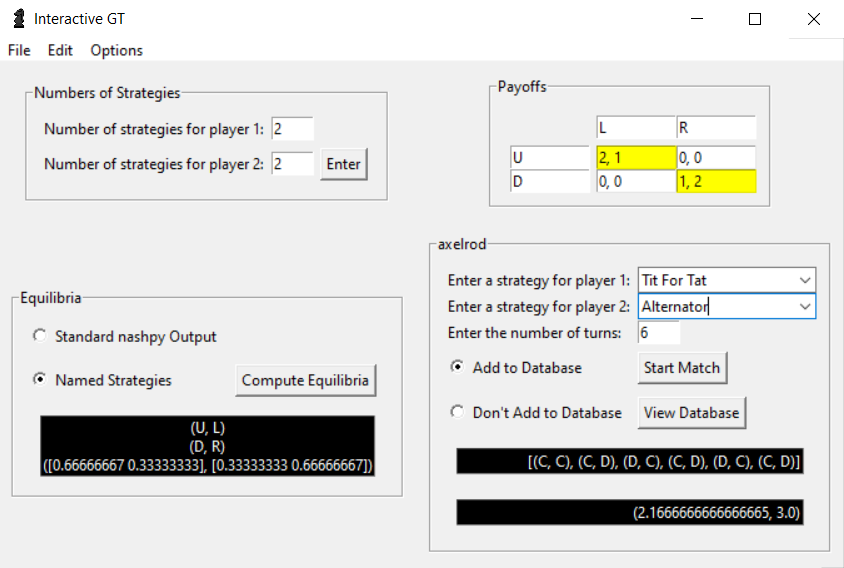
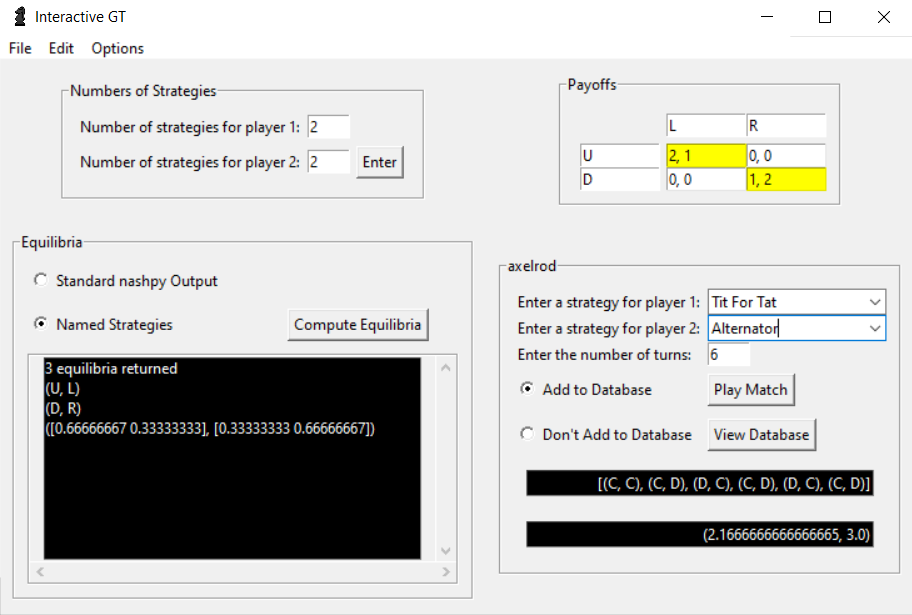
changed equilibria output from a Label to a Labelbox; update README.md

diff --git a/interactivegt.py b/interactivegt.py
@@ -241,21 +241,18 @@ def computeEquilibria(output):
                 # resetting the generator
                 eqs = G.support_enumeration()
             eqList = list(eqs)
-            newList = []
+            newEqList = []
             for eq in eqList:
                 newEq = []
                 for strat in eq:
                     newEq.append(strat.tolist())
-                newList.append(newEq)
+                newEqList.append(newEq)
 
-            eqString = ""
-            for i, eq in enumerate(newList):
-                for j, strat in enumerate(eq):
-                    eqString = eqString + str(strat)
-                    if j < len(eq) - 1:
-                        eqString = eqString + ", "
-                if i < len(newList) - 1:
-                    eqString = eqString + "\n"
+            eqs = G.support_enumeration()
+            eqList = [str(len(list(eqs))) + " equilibria returned\n"]
+            for i, eq in enumerate(newEqList):
+                eqList.append(str(eq[0]) + ", " + str(eq[1]))
+            eqList.reverse()
             
             eqs = G.support_enumeration()
             pureEquilibria = []
@@ -266,7 +263,7 @@ def computeEquilibria(output):
                 else:
                     mixedEquilibria.append(e)
 
-            # Coloring the equilibria yellow
+            # Coloring the equilibria yellow ####################
             payoffMatrixSlaves = payoffsFrame.grid_slaves()
             outcomes = payoffMatrixSlaves[:numStrats1 * numStrats2]
             
@@ -311,11 +308,25 @@ def computeEquilibria(output):
             
             # clearing the previous set of equilibria
             eqSlaves = equilibriaFrame.grid_slaves()
-            if type(eqSlaves[0]).__name__ == "Label":
+            if type(eqSlaves[0]).__name__ == "Listbox":
                 eqSlaves[0].grid_remove()
             
-            equilibriaOutput = Label(equilibriaFrame, text=eqString, bd=1, relief=SUNKEN, anchor=E, bg="black", fg="white")
-            equilibriaOutput.grid(row=2, column=0, columnspan=2, padx=5, pady=5)
+            myFrame = LabelFrame(equilibriaFrame)
+    
+            xscrollbar = Scrollbar(myFrame, orient=HORIZONTAL)
+            yscrollbar = Scrollbar(myFrame, orient=VERTICAL)
+            
+            equilibriaOutputListBox = Listbox(myFrame, width=50, xscrollcommand=xscrollbar.set, yscrollcommand=yscrollbar.set, bg="black", fg="white")
+            for eq in eqList:
+                equilibriaOutputListBox.insert(0, eq)
+            
+            myFrame.grid(row=2, column=0, columnspan=2)
+            equilibriaOutputListBox.grid(row=0, column=0, padx=10, sticky=NSEW)
+            xscrollbar.grid(row=1, column=0, columnspan=2, sticky=EW)
+            xscrollbar.config(command = equilibriaOutputListBox.xview)
+            yscrollbar.grid(row=0, column=1, sticky=NS)
+            yscrollbar.config(command = equilibriaOutputListBox.yview)
+                        
             root.geometry("750x425")
             
         elif output == 1: # Named Strategies
@@ -329,9 +340,17 @@ def computeEquilibria(output):
             else:
                 # resetting the generator
                 eqs = G.support_enumeration()
+            eqList = list(eqs)
+            newEqList = []
+            for eq in eqList:
+                newEq = []
+                for strat in eq:
+                    newEq.append(strat.tolist())
+                newEqList.append(newEq)
             
             pureEquilibria = []
             mixedEquilibria = []
+            eqs = G.support_enumeration()
             for e in eqs:
                 if e[0][0] == 0.0 or e[0][0] == 1.0:
                     pureEquilibria.append(e)
@@ -390,9 +409,16 @@ def computeEquilibria(output):
                     namedEquilibria.append((p1StrategyNames[p1Strat].get(), p2StrategyNames[p2Strat].get()))
                 else:
                     namedEquilibria.append(list(eq))
+                    
+            eqs = G.support_enumeration()
+            eqList = [str(len(list(eqs))) + " equilibria returned\n"]
+            for i, eq in enumerate(namedEquilibria):
+                eqList.append("(" + str(eq[0]) + ", " + str(eq[1]) + ")")
+            eqList.reverse()
             
             # Creating the string to go in the label
-            eqString = ""
+            eqs = G.support_enumeration()
+            eqString = str(len(list(eqs))) + " equilibria returned\n"
             for i, eq in enumerate(namedEquilibria):
                 for j, strat in enumerate(eq):
                     if j == 0:
@@ -451,11 +477,24 @@ def computeEquilibria(output):
                     
             # clearing the previous set of equilibria
             eqSlaves = equilibriaFrame.grid_slaves()
-            if type(eqSlaves[0]).__name__ == "Label":
+            if type(eqSlaves[0]).__name__ == "Listbox":
                 eqSlaves[0].grid_remove()
-                
-            equilibriaOutput = Label(equilibriaFrame, text=eqString, bd=1, relief=SUNKEN, anchor=E, bg="black", fg="white")    
-            equilibriaOutput.grid(row=2, column=0, columnspan=2, padx=5, pady=5)
+            
+            myFrame = LabelFrame(equilibriaFrame)
+    
+            xscrollbar = Scrollbar(myFrame, orient=HORIZONTAL)
+            yscrollbar = Scrollbar(myFrame, orient=VERTICAL)
+            
+            equilibriaOutputListBox = Listbox(myFrame, width=50, xscrollcommand=xscrollbar.set, yscrollcommand=yscrollbar.set, bg="black", fg="white")
+            for eq in eqList:
+                equilibriaOutputListBox.insert(0, eq)
+            
+            myFrame.grid(row=2, column=0, columnspan=2)
+            equilibriaOutputListBox.grid(row=0, column=0, padx=10, sticky=NSEW)
+            xscrollbar.grid(row=1, column=0, columnspan=2, sticky=EW)
+            xscrollbar.config(command = equilibriaOutputListBox.xview)
+            yscrollbar.grid(row=0, column=1, sticky=NS)
+            yscrollbar.config(command = equilibriaOutputListBox.yview)
             root.geometry("750x425")
         else:
             print("Error: variable output has taken on an unexpected value")
